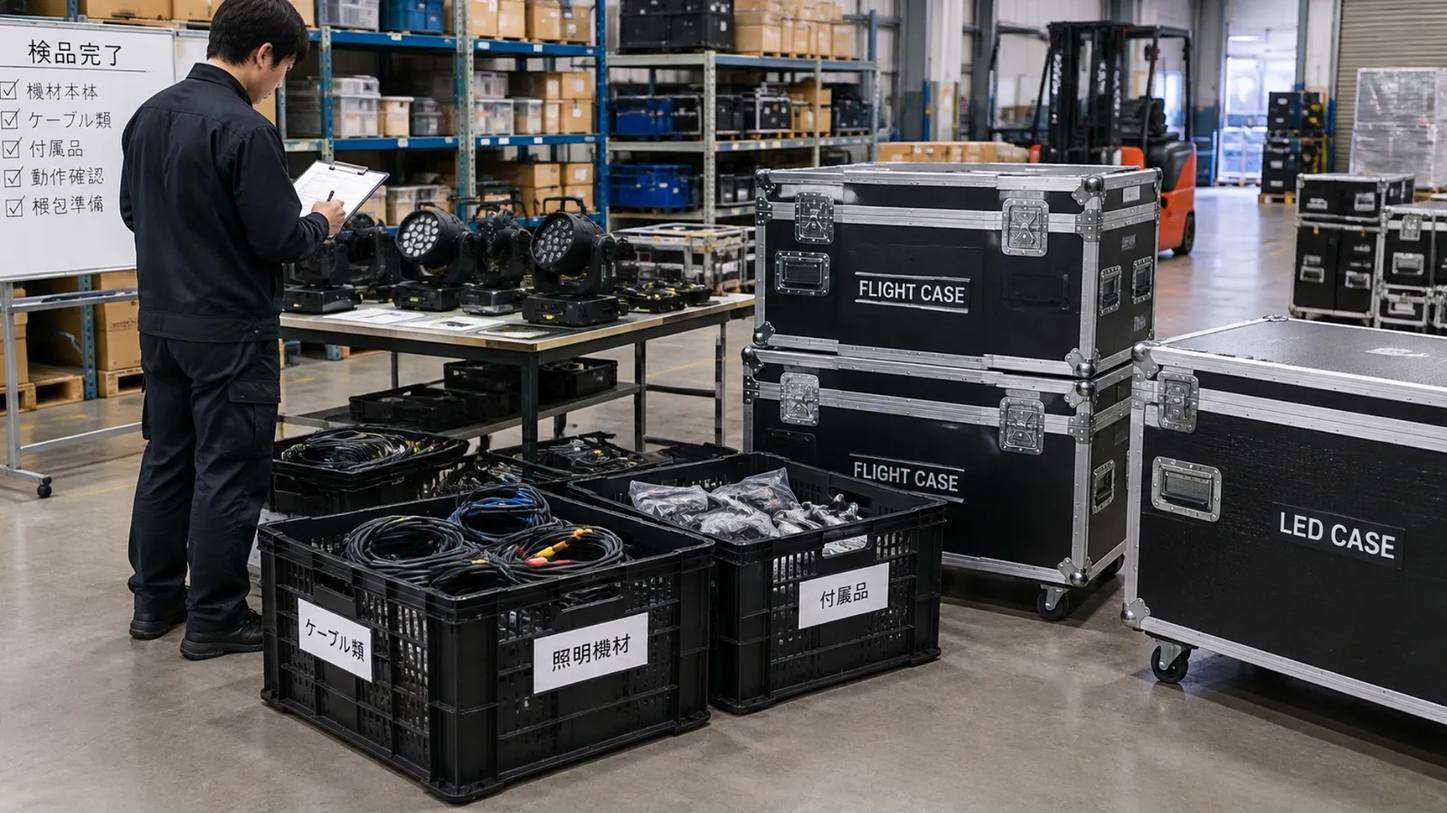
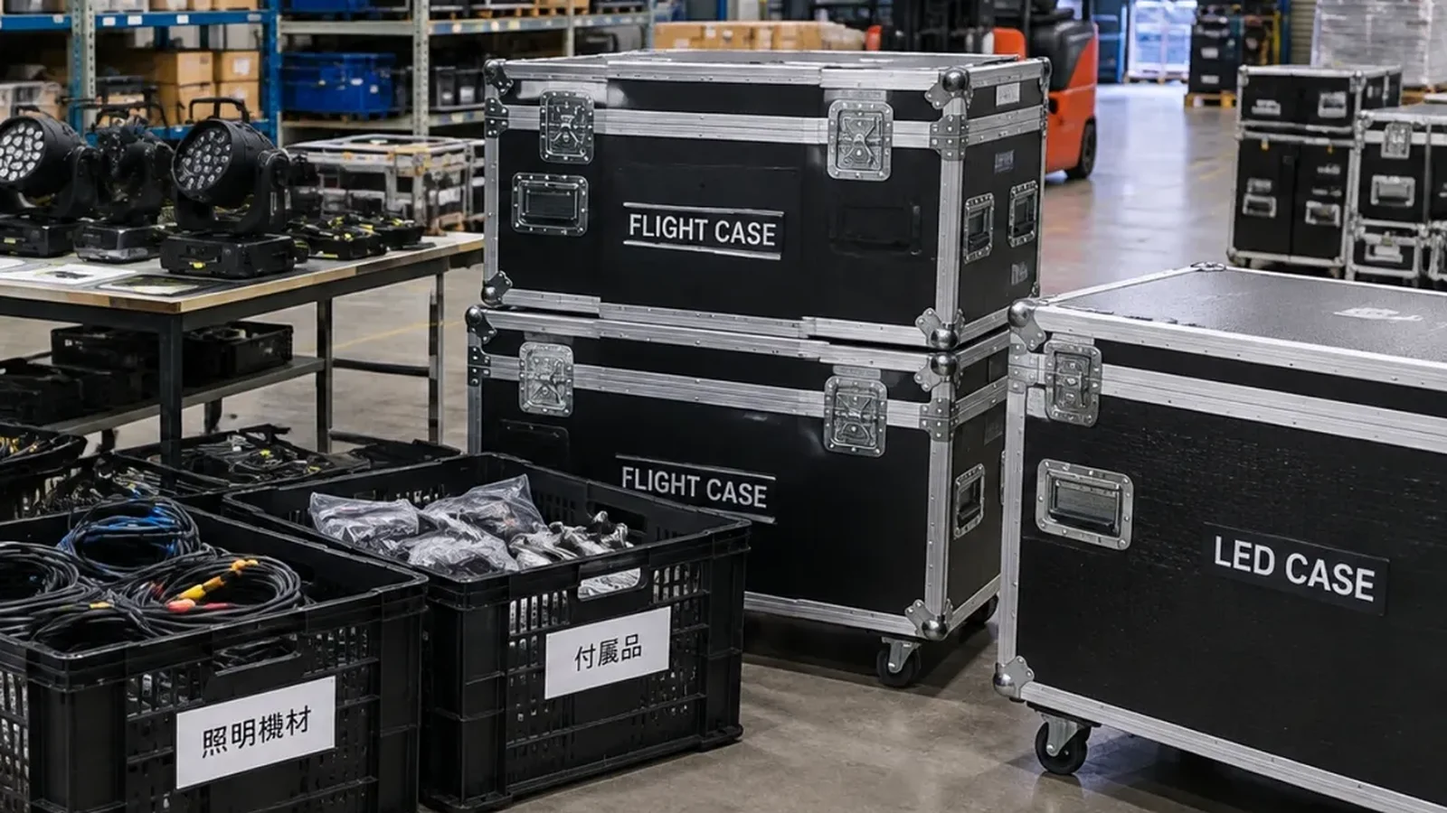
publish 08-11-10 10:30

diff --git a/technical.html b/technical.html
@@ -11,7 +11,7 @@
 
 <section class="sp-sec sp-alt" id="technical-roles"><div class="shell"><header class="sp-head"><span class="sp-num">02</span><div><p class="sp-eyebrow">FROM PREPARATION TO HANDOVER</p><h2>仕込みだけでも。本番だけでも。<br>撤去だけでも。</h2><p>すべてを頼まなくても、大丈夫。必要なポジションから、チームに加わります。最初の相談で、すべての資料がそろっている必要はありません。</p></div></header>
 <nav class="tp-jump" aria-label="工程から選ぶ"><a href="#warehouse-support">倉庫準備・返却 ↓</a><a href="#technical-prepare">準備から ↓</a><a href="#technical-setup">仕込みから ↓</a><a href="#technical-show">本番から ↓</a><a href="#technical-strike">撤去から ↓</a></nav>
-<article class="tp-phase" id="warehouse-support"><figure><img src="assets/photo/fr-warehouse.webp" alt="倉庫で機材を検品するスタッフとフライトケース" loading="lazy"></figure><div><p class="tp-no"><b>00</b>WAREHOUSE</p><h3>倉庫作業(出庫準備・返却照合)</h3><p class="tp-sub">出す前に合わせ、戻ったら確かめる。</p><p>現場に出ない日でも、倉庫の作業だけをお手伝いできます。機材リストと中身を合わせて送り出し、戻ってきた機材を数量・付属品・状態の順に確かめて記録します。</p><details><summary>出庫準備・返却照合を詳しく見る</summary><dl><div><dt>出庫準備</dt><dd>機材リストと実物の照合、本体・付属品・ケーブルの数量確認、ケーブルの巻き直し、現場で出す順を考えたケースへの詰め込み。</dd></div><div><dt>返却照合</dt><dd>戻った機材の数量・付属品・外観の状態を確認し、不足や気になる点を記録して担当者へ共有します。</dd></div><div><dt>事前に確認すること</dt><dd>倉庫の場所と作業時間、機材リスト(型式・数量)、照合結果の記録方法と共有先、トラックの着時間。</dd></div><div><dt>担当しないこと</dt><dd>機材の修理や、メーカー点検が必要な作業は含みません。気になった点は記録して、判断を担当者にお任せします。</dd></div></dl></details></div></article><article class="tp-phase" id="technical-prepare"><figure><img src="assets/photo/j-checklist.webp" alt="進行表と機材リストを確認する手元" loading="lazy"></figure><div><p class="tp-no"><b>01</b>BEFORE THE DAY</p><h3>準備・事前共有</h3><p class="tp-sub">素材と進行、機材と担当をそろえる。</p><p>進行表・会場図・機材構成をもとに、担当工程と当日の連絡系統を共有します。</p><details><summary>担当・準備・引き継ぎを詳しく見る</summary><dl><div><dt>担当すること</dt><dd>進行・素材・機材構成を読み合わせ、操作や作業の分担を整理します。</dd></div><div><dt>事前に確認すること</dt><dd>進行表、会場図面、機材リスト、素材の受け渡し日・方法、現場責任者と各担当の連絡系統。</dd></div><div><dt>準備で決めておくこと</dt><dd>誰が何を担当するか、何をいつ受け取るかを共有。未決定の条件は、担当と確認のタイミングをそろえます。</dd></div></dl></details></div></article><article class="tp-phase" id="technical-setup"><figure><img src="assets/photo/fr-loading.webp" alt="トラックから機材を搬入するスタッフ" loading="lazy"></figure><div><p class="tp-no"><b>02</b>SETUP &amp; CHECK</p><h3>設営・調整</h3><p class="tp-sub">つないで、映して、本番の状態へ。</p><p>担当機材の搬入・設置・配線。入力から画面までの表示を確かめ、リハーサルに備えます。</p><details><summary>担当・準備・引き継ぎを詳しく見る</summary><dl><div><dt>担当すること</dt><dd>合意した範囲の機材設置・配線・映像確認。表示先、素材の見え方、音声の受け渡しを本番前に確認します。</dd></div><div><dt>事前に確認すること</dt><dd>搬入経路、作業時間、設置位置、使用機材、会場の電源条件、他セクションとの作業順序。</dd></div><div><dt>次の担当へ引き継ぐこと</dt><dd>指定した画面に映像が届き、次の担当へ状態を引き継げること。機材の支え方・電源・作業条件が合わない場合は、作業を進めず責任者と調整します。</dd></div></dl></details></div></article><article class="tp-phase" id="technical-show"><figure><img src="assets/photo/fr-rehearsal.webp" alt="リハーサルでLEDにカラーバーを映すアリーナ" loading="lazy"></figure><div><p class="tp-no"><b>03</b>SHOW OPERATION</p><h3>リハーサル・本番</h3><p class="tp-sub">進行のきっかけに、映像を合わせる。</p><p>素材の順番や切り替えの合図を合わせ、担当ポジションで映像送出・操作を行います。</p><details><summary>担当・準備・引き継ぎを詳しく見る</summary><dl><div><dt>担当すること</dt><dd>リハーサルで再生・切り替えの合図を合わせ、本番は担当ポジションの送出・操作を行います。</dd></div><div><dt>事前に確認すること</dt><dd>上映する最終データ、進行表、合図を出す担当、リハーサル時間、変更時の連絡方法。配信や収録がある場合は、その担当と出力先。</dd></div><div><dt>変更・異常時の確認</dt><dd>素材の更新と進行変更を関係者へ共有。異常時は、事前に決めた待機画面や連絡手順に沿って対応します。予備機の有無と、切り替えを担当する人も事前に確認します。</dd></div></dl></details></div></article><article class="tp-phase" id="technical-strike"><figure><img src="assets/photo/fr-strike.webp" alt="終演後にLEDを撤去するスタッフ" loading="lazy"></figure><div><p class="tp-no"><b>04</b>STRIKE &amp; HANDOVER</p><h3>撤去・引き渡し</h3><p class="tp-sub">終演後も、次につながる段取りを。</p><p>作業順序に沿って撤去・梱包・搬出。機材の数量、返却先、共有事項を引き継ぎます。</p><details><summary>担当・準備・引き継ぎを詳しく見る</summary><dl><div><dt>担当すること</dt><dd>現場の撤去順序に合わせ、担当機材の片付け・梱包・搬出を行います。</dd></div><div><dt>事前に確認すること</dt><dd>撤去開始の合図、退出時刻、返却先、ケース・付属品の一覧、搬出車両と他セクションの動き。</dd></div><div><dt>引き渡すこと</dt><dd>数量・付属品・機材の状態、返却先、残る確認事項。破損や不足が見つかった場合は、その場で責任者へ共有します。</dd></div></dl></details></div></article>
+<article class="tp-phase" id="warehouse-support"><figure><img src="assets/photo/fr-warehouse.webp" alt="出荷前に並ぶ機材ケースとケーブル類" loading="lazy"></figure><div><p class="tp-no"><b>00</b>WAREHOUSE</p><h3>倉庫作業(出庫準備・返却照合)</h3><p class="tp-sub">出す前に合わせ、戻ったら確かめる。</p><p>現場に出ない日でも、倉庫の作業だけをお手伝いできます。機材リストと中身を合わせて送り出し、戻ってきた機材を数量・付属品・状態の順に確かめて記録します。</p><details><summary>出庫準備・返却照合を詳しく見る</summary><dl><div><dt>出庫準備</dt><dd>機材リストと実物の照合、本体・付属品・ケーブルの数量確認、ケーブルの巻き直し、現場で出す順を考えたケースへの詰め込み。</dd></div><div><dt>返却照合</dt><dd>戻った機材の数量・付属品・外観の状態を確認し、不足や気になる点を記録して担当者へ共有します。</dd></div><div><dt>事前に確認すること</dt><dd>倉庫の場所と作業時間、機材リスト(型式・数量)、照合結果の記録方法と共有先、トラックの着時間。</dd></div><div><dt>担当しないこと</dt><dd>機材の修理や、メーカー点検が必要な作業は含みません。気になった点は記録して、判断を担当者にお任せします。</dd></div></dl></details></div></article><article class="tp-phase" id="technical-prepare"><figure><img src="assets/photo/j-checklist.webp" alt="進行表と機材リストを確認する手元" loading="lazy"></figure><div><p class="tp-no"><b>01</b>BEFORE THE DAY</p><h3>準備・事前共有</h3><p class="tp-sub">素材と進行、機材と担当をそろえる。</p><p>進行表・会場図・機材構成をもとに、担当工程と当日の連絡系統を共有します。</p><details><summary>担当・準備・引き継ぎを詳しく見る</summary><dl><div><dt>担当すること</dt><dd>進行・素材・機材構成を読み合わせ、操作や作業の分担を整理します。</dd></div><div><dt>事前に確認すること</dt><dd>進行表、会場図面、機材リスト、素材の受け渡し日・方法、現場責任者と各担当の連絡系統。</dd></div><div><dt>準備で決めておくこと</dt><dd>誰が何を担当するか、何をいつ受け取るかを共有。未決定の条件は、担当と確認のタイミングをそろえます。</dd></div></dl></details></div></article><article class="tp-phase" id="technical-setup"><figure><img src="assets/photo/fr-loading.webp" alt="トラックから機材を搬入するスタッフ" loading="lazy"></figure><div><p class="tp-no"><b>02</b>SETUP &amp; CHECK</p><h3>設営・調整</h3><p class="tp-sub">つないで、映して、本番の状態へ。</p><p>担当機材の搬入・設置・配線。入力から画面までの表示を確かめ、リハーサルに備えます。</p><details><summary>担当・準備・引き継ぎを詳しく見る</summary><dl><div><dt>担当すること</dt><dd>合意した範囲の機材設置・配線・映像確認。表示先、素材の見え方、音声の受け渡しを本番前に確認します。</dd></div><div><dt>事前に確認すること</dt><dd>搬入経路、作業時間、設置位置、使用機材、会場の電源条件、他セクションとの作業順序。</dd></div><div><dt>次の担当へ引き継ぐこと</dt><dd>指定した画面に映像が届き、次の担当へ状態を引き継げること。機材の支え方・電源・作業条件が合わない場合は、作業を進めず責任者と調整します。</dd></div></dl></details></div></article><article class="tp-phase" id="technical-show"><figure><img src="assets/photo/fr-rehearsal.webp" alt="リハーサルでLEDにカラーバーを映すアリーナ" loading="lazy"></figure><div><p class="tp-no"><b>03</b>SHOW OPERATION</p><h3>リハーサル・本番</h3><p class="tp-sub">進行のきっかけに、映像を合わせる。</p><p>素材の順番や切り替えの合図を合わせ、担当ポジションで映像送出・操作を行います。</p><details><summary>担当・準備・引き継ぎを詳しく見る</summary><dl><div><dt>担当すること</dt><dd>リハーサルで再生・切り替えの合図を合わせ、本番は担当ポジションの送出・操作を行います。</dd></div><div><dt>事前に確認すること</dt><dd>上映する最終データ、進行表、合図を出す担当、リハーサル時間、変更時の連絡方法。配信や収録がある場合は、その担当と出力先。</dd></div><div><dt>変更・異常時の確認</dt><dd>素材の更新と進行変更を関係者へ共有。異常時は、事前に決めた待機画面や連絡手順に沿って対応します。予備機の有無と、切り替えを担当する人も事前に確認します。</dd></div></dl></details></div></article><article class="tp-phase" id="technical-strike"><figure><img src="assets/photo/fr-strike.webp" alt="終演後にLEDを撤去するスタッフ" loading="lazy"></figure><div><p class="tp-no"><b>04</b>STRIKE &amp; HANDOVER</p><h3>撤去・引き渡し</h3><p class="tp-sub">終演後も、次につながる段取りを。</p><p>作業順序に沿って撤去・梱包・搬出。機材の数量、返却先、共有事項を引き継ぎます。</p><details><summary>担当・準備・引き継ぎを詳しく見る</summary><dl><div><dt>担当すること</dt><dd>現場の撤去順序に合わせ、担当機材の片付け・梱包・搬出を行います。</dd></div><div><dt>事前に確認すること</dt><dd>撤去開始の合図、退出時刻、返却先、ケース・付属品の一覧、搬出車両と他セクションの動き。</dd></div><div><dt>引き渡すこと</dt><dd>数量・付属品・機材の状態、返却先、残る確認事項。破損や不足が見つかった場合は、その場で責任者へ共有します。</dd></div></dl></details></div></article>
 <p class="tp-scope">映像制作、音響・照明の運用、会場の電気工事や吊り設備の施工は、上記の技術提供に自動的に含まれるものではありません。必要な作業と担当会社を事前に分けて整理します。</p></div></section>
 
 <section class="sp-sec" id="technical-cases"><div class="shell"><header class="sp-head"><span class="sp-num">03</span><div><p class="sp-eyebrow">TECHNICAL EXPERIENCE</p><h2>現場を知ると、<br>任せる役割が見えてくる。</h2><p>LOTUS VISUAL が参加した現場から、担当した工程を 8 つのフィールドノートにまとめました。</p></div></header>

diff --git a/recruit.html b/recruit.html
@@ -24,7 +24,7 @@
 <span class="rc-num">02 — A DAY ON SITE</span><h2 class="rc-reveal">現場の 1 日は、<br>倉庫から始まる。</h2>
 <p class="rc-lead rc-reveal">お客さまが見るのは本番の 2〜3 時間。その前後に、映像チームの長い 1 日があります。</p>
 <div class="rc-day">
-<figure class="rc-reveal"><img src="assets/photo/fr-warehouse.webp" alt="倉庫で機材ケースの中身を確かめるスタッフ" loading="lazy" width="1600" height="900"><figcaption><small>STEP 1</small><strong>倉庫で準備</strong><p>リストを見ながら、ケースの中身を 1 つずつ確認。ここでの抜けは、現場では取り返せません。</p></figcaption></figure>
+<figure class="rc-reveal"><img src="assets/photo/fr-warehouse.webp" alt="出荷前に並ぶ機材ケースとケーブル類" loading="lazy" width="1600" height="900"><figcaption><small>STEP 1</small><strong>倉庫で準備</strong><p>リストを見ながら、ケースの中身を 1 つずつ確認。ここでの抜けは、現場では取り返せません。</p></figcaption></figure>
 <figure class="rc-reveal"><img src="assets/photo/fr-loading.webp" alt="白いヘルメットのスタッフが2人で機材ケースをトラックに積む" loading="lazy" width="1600" height="900"><figcaption><small>STEP 2</small><strong>積み込み・搬入</strong><p>重たいケースは 2 人以上で、台車で。トラックに積む順番は、会場で降ろす順番の逆です。</p></figcaption></figure>
 <figure class="rc-reveal"><img src="assets/photo/fr-rehearsal.webp" alt="ステージのLEDビジョンにテスト映像が映るアリーナ" loading="lazy" width="1600" height="900"><figcaption><small>STEP 3</small><strong>仕込み</strong><p>LED を組んで、配線して、テスト映像を出す。色やつなぎ目のズレをここで全部つぶします。</p></figcaption></figure>
 <figure class="rc-reveal"><img src="assets/photo/fr-show.webp" alt="ライブ本番の大型LEDと映像卓" loading="lazy" width="1600" height="900"><figcaption><small>STEP 4</small><strong>ゲネ・本番</strong><p>本番と同じ流れで通して、いよいよ開演。映像卓のうしろで、客席の歓声を背中で聞くことになります。</p></figcaption></figure>
@@ -78,7 +78,7 @@
 <div class="body"><p>開演 5 分前。客席はざわざわしているのに、映像卓のまわりは静かです。みんな、画面を見ています。</p><p>確かめているのは、映像がちゃんと出ているか、予備の系統に切り替えられるか、インカムの声がちゃんと届くか。本番中に何かあっても、お客さまに気づかれないうちに戻せるように、準備はすべてこの瞬間のためにあります。</p><p>そして暗転。1 曲目のイントロと同時に、自分たちが組んだ画面に光が入る。この瞬間のために、朝から倉庫で、会場で、汗をかいてきたんです。</p><p class="punch">この数秒の鳥肌が忘れられなくて、この仕事を続けている人がたくさんいます。</p></div></details></article>
 <article class="rc-read rc-reveal"><img src="assets/photo/fr-loading.webp" alt="2人で機材ケースを運ぶスタッフ" loading="lazy" width="1600" height="900"><details><summary><small>READ 03 ・ ホントのところ</small><h3>「体力勝負でしょ?」の<br>ウソとホント。</h3><p class="hook">半分ホントで、半分ウソです。</p><span class="more">続きを読む ↓</span></summary>
 <div class="body"><p>ホントの部分。現場は立ち仕事で、搬入も撤去もあります。体を動かすのが好きな人には向いています。</p><p>ウソの部分。重たいものを 1 人で持つことはありません。ケースには車輪がついていて、台車を使い、2 人以上で運びます。白いヘルメットをかぶって、安全第一で動きます。</p><p>本当に大事なのは、力より段取りです。どの順番で積めば、会場で早く降ろせるか。どこにケーブルを通せば、お客さまの導線をふさがないか。考えて動ける人が、いちばん頼りにされます。</p><p class="punch">求められるのは筋肉より、「次に何が起きるか」を考える頭です。</p></div></details></article>
-<article class="rc-read rc-reveal"><img src="assets/photo/fr-warehouse.webp" alt="倉庫で機材を確認するスタッフ" loading="lazy" width="1600" height="900"><details><summary><small>READ 04 ・ これから入る人へ</small><h3>未経験から 1 年。<br>最初の 3 か月で差がつくこと。</h3><p class="hook">特別な才能はいりません。でも、コツはあります。</p><span class="more">続きを読む ↓</span></summary>
+<article class="rc-read rc-reveal"><img src="assets/photo/fr-warehouse.webp" alt="出荷前に並ぶ機材ケースとケーブル類" loading="lazy" width="1600" height="900"><details><summary><small>READ 04 ・ これから入る人へ</small><h3>未経験から 1 年。<br>最初の 3 か月で差がつくこと。</h3><p class="hook">特別な才能はいりません。でも、コツはあります。</p><span class="more">続きを読む ↓</span></summary>
 <div class="body"><p>最初の 3 か月は、機材研修と現場研修の期間です。ここで覚えることは、じつはシンプルです。</p><p>1 つ目は、機材の名前と、どのケースに何が入っているか。現場で「あれ取って」と言われたとき、迷わず取りに行けるだけで、チームの一員になれます。</p><p>2 つ目は、先輩の動きを見ること。指示を待つだけでなく、先輩が次に何をしようとしているかを想像する。これが STEP 3 の「現場を仕切る」力につながっていきます。</p><p class="punch">1 年後、今度はあなたが「あれ取って」と言う側になります。</p></div></details></article>
 </div></div></section>
 

diff --git a/services.html b/services.html
@@ -26,7 +26,7 @@
 <div><dt><b>04</b>ご依頼の範囲</dt><dd>必要な人数・専門スキル・機材の手配可否は案件ごとにご案内します。技術提供と機材レンタルの範囲を分けて明確にします。</dd></div>
 </dl></div></div></section>
 
-<section class="sp-sec sp-alt" id="sp-warehouse"><div class="shell sp-wh"><figure><img src="assets/photo/fr-warehouse.webp" alt="倉庫で機材を検品するスタッフとフライトケース" loading="lazy" width="1600" height="900"></figure><div><span class="sp-num">04</span><p class="sp-eyebrow">WAREHOUSE</p><h2>現場に出ない日も、<br>倉庫の作業から。</h2><p>出庫前のリスト照合と検品、返却時の数量・付属品・状態の確認。必要な工程だけ、技術スタッフにご相談いただけます。</p><a class="sp-link" href="technical.html#warehouse-support">倉庫作業の内容を見る ↗</a></div></div></section>
+<section class="sp-sec sp-alt" id="sp-warehouse"><div class="shell sp-wh"><figure><img src="assets/photo/fr-warehouse.webp" alt="出荷前に並ぶ機材ケースとケーブル類" loading="lazy" width="1600" height="900"></figure><div><span class="sp-num">04</span><p class="sp-eyebrow">WAREHOUSE</p><h2>現場に出ない日も、<br>倉庫の作業から。</h2><p>出庫前のリスト照合と検品、返却時の数量・付属品・状態の確認。必要な工程だけ、技術スタッフにご相談いただけます。</p><a class="sp-link" href="technical.html#warehouse-support">倉庫作業の内容を見る ↗</a></div></div></section>
 
 <section class="sp-end"><img src="assets/photo/fr-show.webp" alt="" loading="lazy"><div class="shell"><p class="sp-eyebrow">LET’S TALK</p><h2>どの工程からでも、<br>ご相談ください。</h2><p>技術提供と映像機材レンタル。ご希望に合わせて、担当範囲を整理します。</p><a class="sp-cta" href="contact.html">相談内容をまとめる ↗</a></div></section>
 </main><footer class="site-footer"><div class="footer-main"><div><a aria-label="LOTUS VISUAL ホーム" class="wordmark" href="./">LOTUS<span>.</span><small>EVENT VISUAL / TECHNICAL</small></a><p>映像を届ける。現場をつなぐ。</p></div><nav aria-label="サイトマップ" class="footer-links"><a href="services.html">事業案内<span aria-hidden="true">↗</span></a><a href="technical.html">技術提供<span aria-hidden="true">↗</span></a><a href="technical.html#technical-cases">技術提供事例<span aria-hidden="true">↗</span></a><a href="rental.html">映像機材レンタル<span aria-hidden="true">↗</span></a><a href="products.html">機材ガイド<span aria-hidden="true">↗</span></a><a href="scenes.html">用途から考える<span aria-hidden="true">↗</span></a><a href="contact.html">ご依頼の流れ<span aria-hidden="true">↗</span></a><a href="partners.html">映像会社様へ<span aria-hidden="true">↗</span></a><a href="about.html">LOTUSについて<span aria-hidden="true">↗</span></a><a href="contact.html">ご相談<span aria-hidden="true">↗</span></a></nav></div><p class="visual-disclosure">機材の仕様・画像出典は各ガイドでご覧いただけます。</p><div class="footer-reading"><a href="journal.html">イベントの読みもの ↗</a></div><div class="footer-bottom"><span>© LOTUS VISUAL</span><span>EVENT VISUAL / TECHNICAL</span><a class="v2-back-top" href="#top">ページの先頭へ <span aria-hidden="true">↑</span></a></div></footer></body></html>

diff --git a/partners.html b/partners.html
@@ -24,7 +24,7 @@
 <section class="pt-sec pt-alt" id="pt-day"><div class="shell"><header class="pt-head pt-reveal"><span class="pt-num">02</span><div><p class="pt-eyebrow">ONE PROJECT, END TO END</p><h2>打ち合わせから、<br>返却の照合まで。</h2><p>前後の担当者と引き継ぎながら、決めた工程を受け持ちます。どこから入って、どこで抜けるかは案件ごとに決められます。</p></div></header>
 <div class="pt-day" tabindex="0" aria-label="案件の流れ(横にスクロール)">
 <article class="pt-reveal"><figure><img src="assets/photo/j-checklist.webp" alt="機材リストを確認する手元" loading="lazy"><span class="when">01<small>BRIEFING</small></span></figure><h3>担当と機材をそろえる</h3><p>担当工程・機材・時間・連絡先を事前に共有。持ち込みと手配の線を引きます。</p></article>
-<article class="pt-reveal"><figure><img src="assets/photo/fr-warehouse.webp" alt="倉庫で機材を検品するスタッフ" loading="lazy"><span class="when">02<small>PREP</small></span></figure><h3>出庫前の照合</h3><p>リストと中身を合わせ、数量と付属品を確かめてから積み込みます。</p></article>
+<article class="pt-reveal"><figure><img src="assets/photo/fr-warehouse.webp" alt="出荷前に並ぶ機材ケースとケーブル類" loading="lazy"><span class="when">02<small>PREP</small></span></figure><h3>出庫前の照合</h3><p>リストと中身を合わせ、数量と付属品を確かめてから積み込みます。</p></article>
 <article class="pt-reveal"><figure><img src="assets/photo/fr-loading.webp" alt="トラックから機材を降ろすスタッフ" loading="lazy"><span class="when">03<small>LOAD-IN</small></span></figure><h3>搬入・設営</h3><p>会場のルールと作業順に沿って、設置・配線・動作確認まで。</p></article>
 <article class="pt-reveal"><figure><img src="assets/photo/fr-rehearsal.webp" alt="リハーサルでLEDにカラーバーを映す" loading="lazy"><span class="when">04<small>REHEARSAL</small></span></figure><h3>リハーサル</h3><p>映像の送出・切り替えを確認し、変更点を関係する担当へ共有します。</p></article>
 <article class="pt-reveal"><figure><img src="assets/photo/fr-show.webp" alt="本番中のLEDステージ" loading="lazy"><span class="when">05<small>SHOW</small></span></figure><h3>本番の操作</h3><p>決めた役割で、映像の操作と現場の確認を受け持ちます。</p></article>
